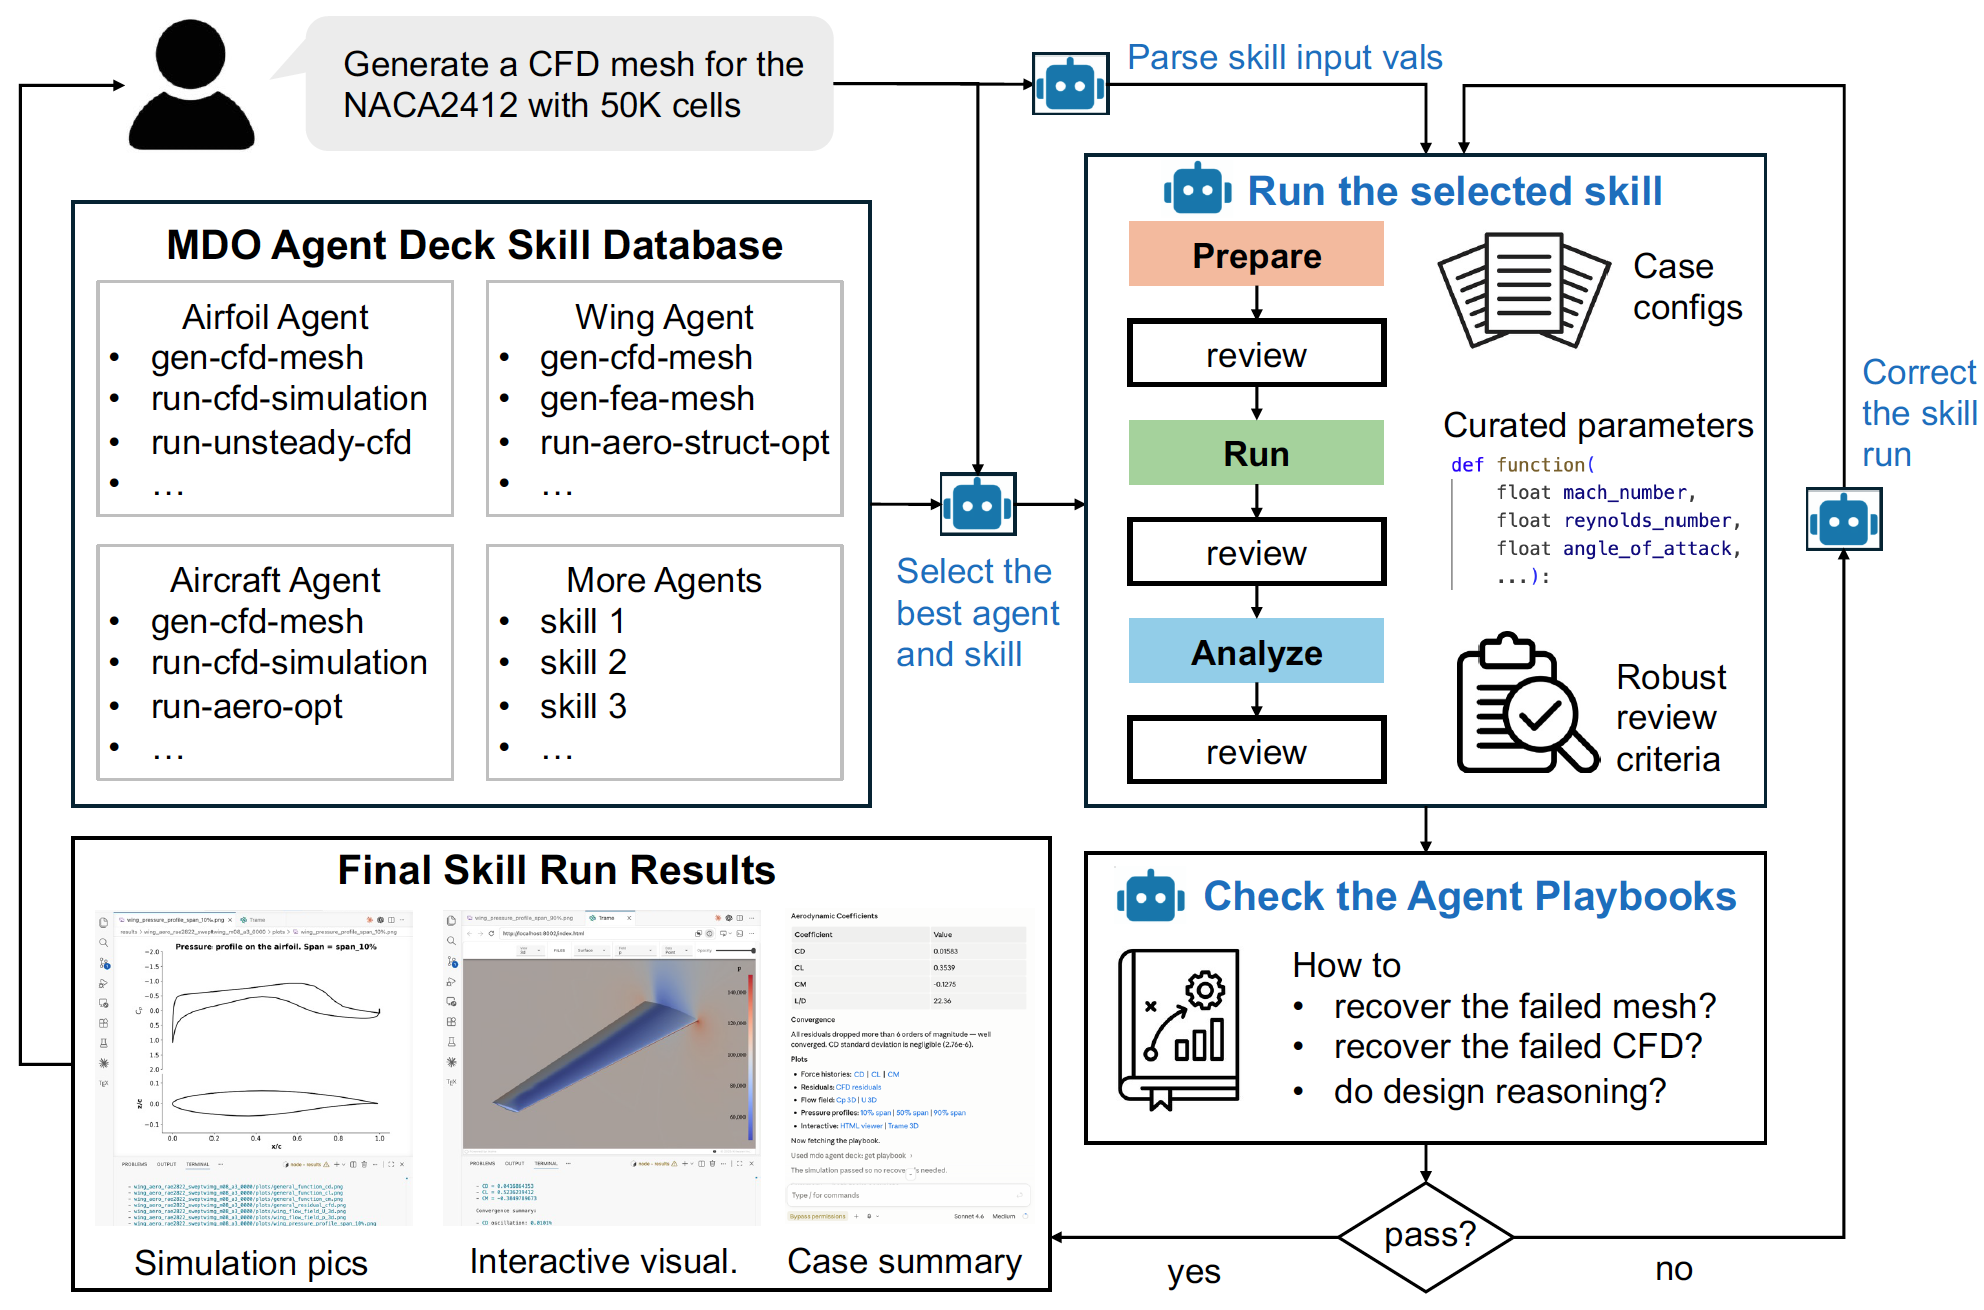
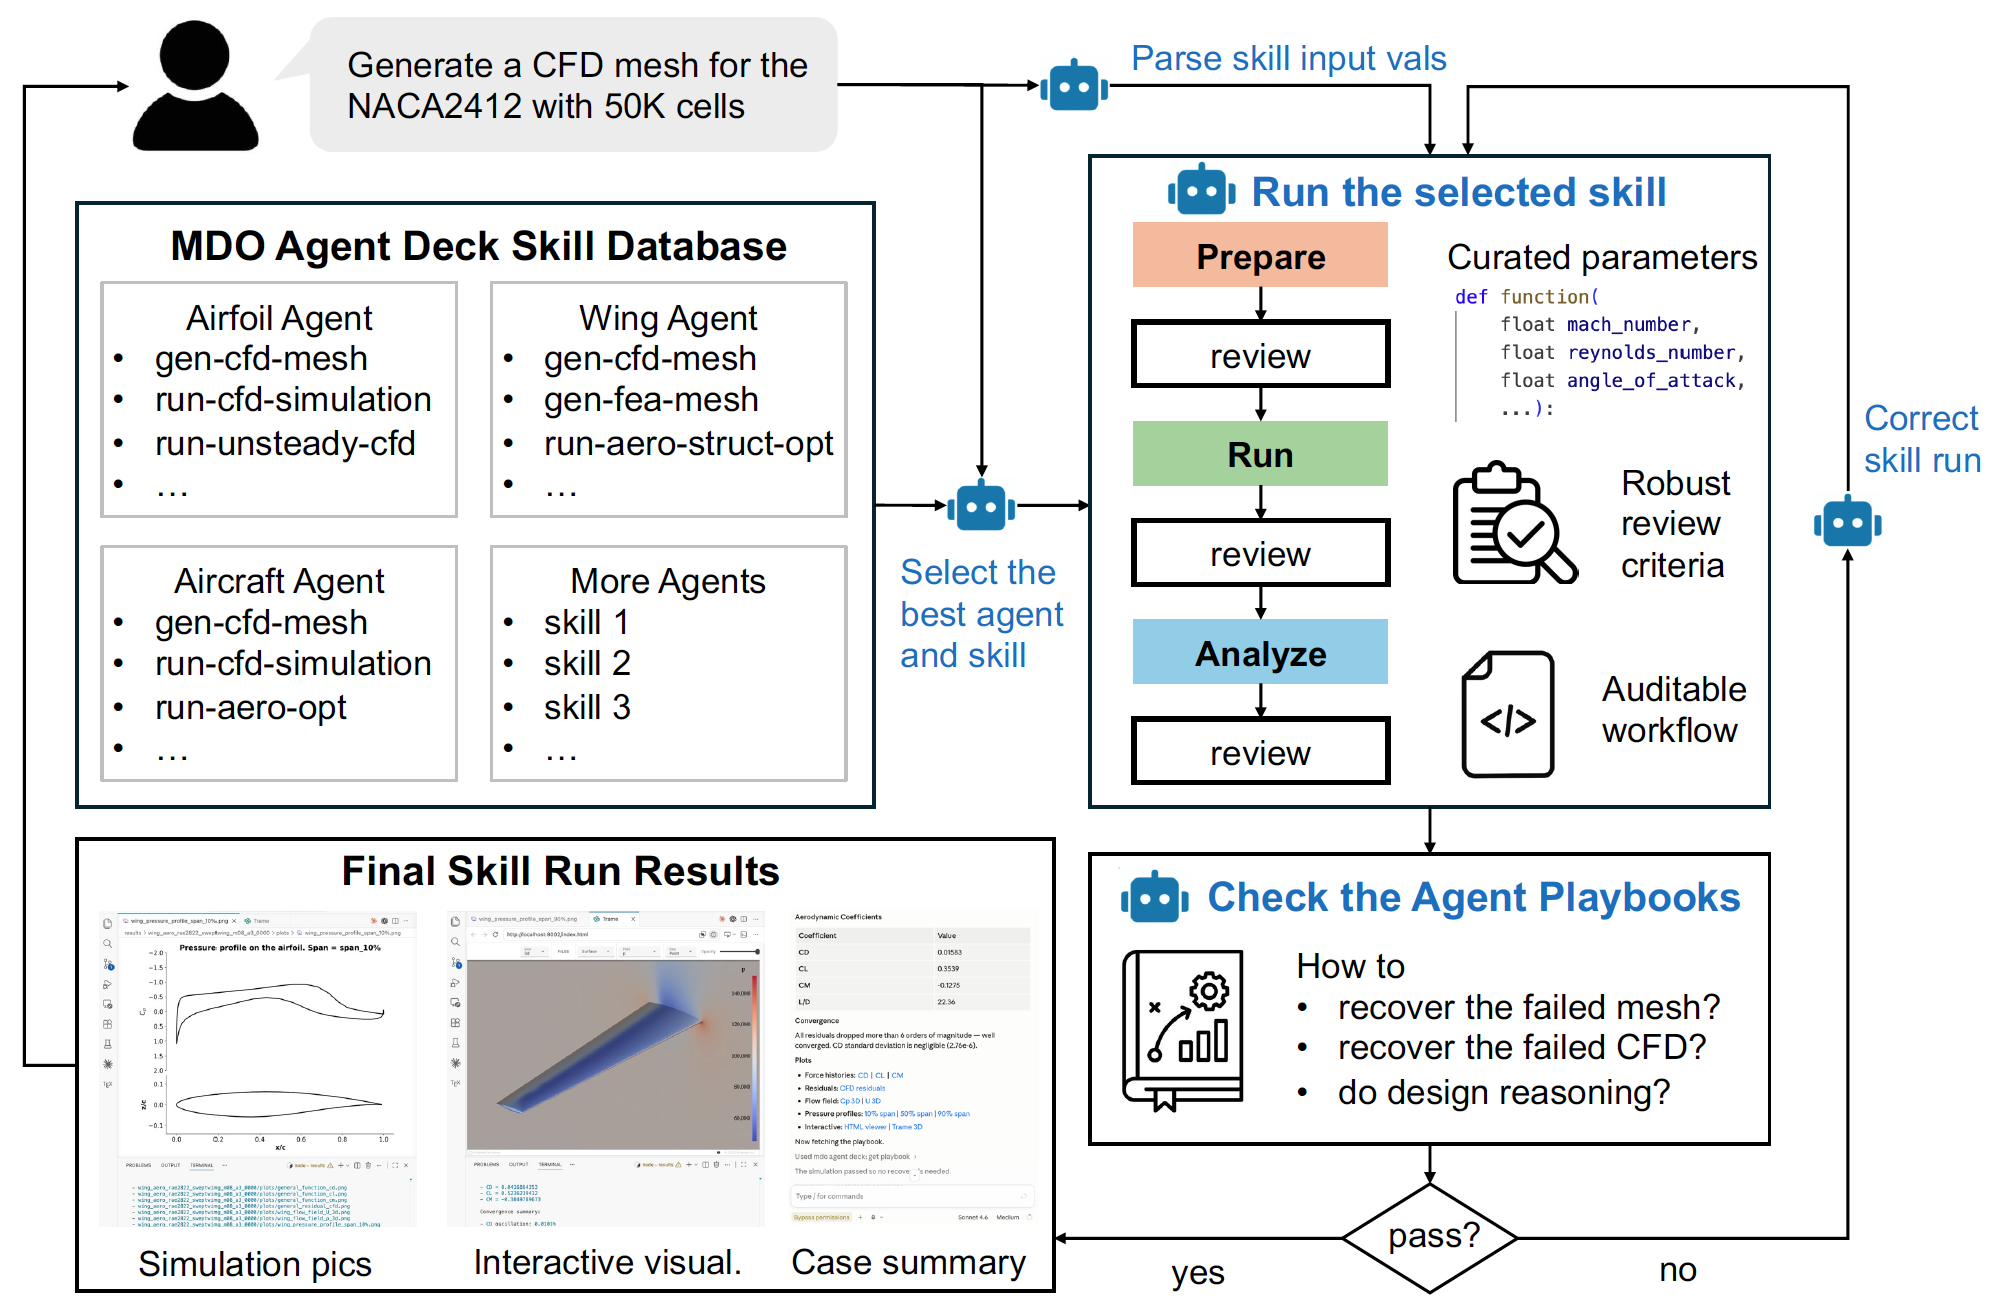
content update

diff --git a/pages/mydoc/mydoc_ai_agent_overview.md b/pages/mydoc/mydoc_ai_agent_overview.md
@@ -48,7 +48,7 @@ The execution will look like this:
 6. The mesh plots, interactive visualization servers, and a report regarding the mesh quality and number of mesh cells are passed back to the user.
 
 <div style="text-align: center;">
-<img src="{{ site.url }}{{ site.baseurl }}/images/tutorials/AI-overview-diagram.png" style="width:800px !important;" />
+<img src="{{ site.url }}{{ site.baseurl }}/images/tutorials/AI-overview-diagram.png" style="width:900px !important;" />
 
 Fig. 1. Schematic of the agentic AI workflow
 </div>